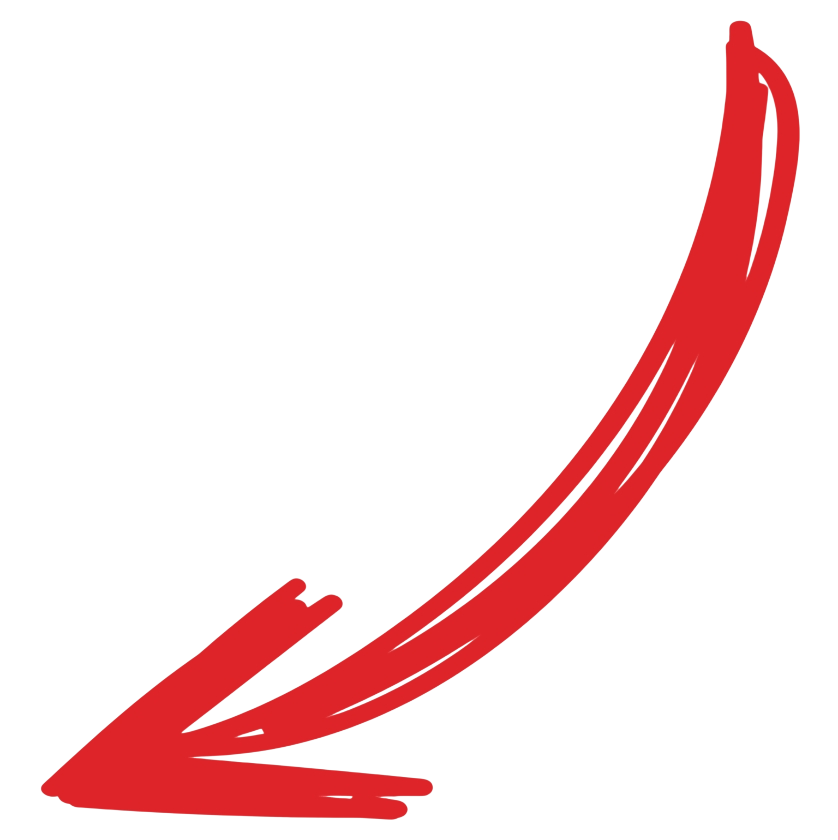
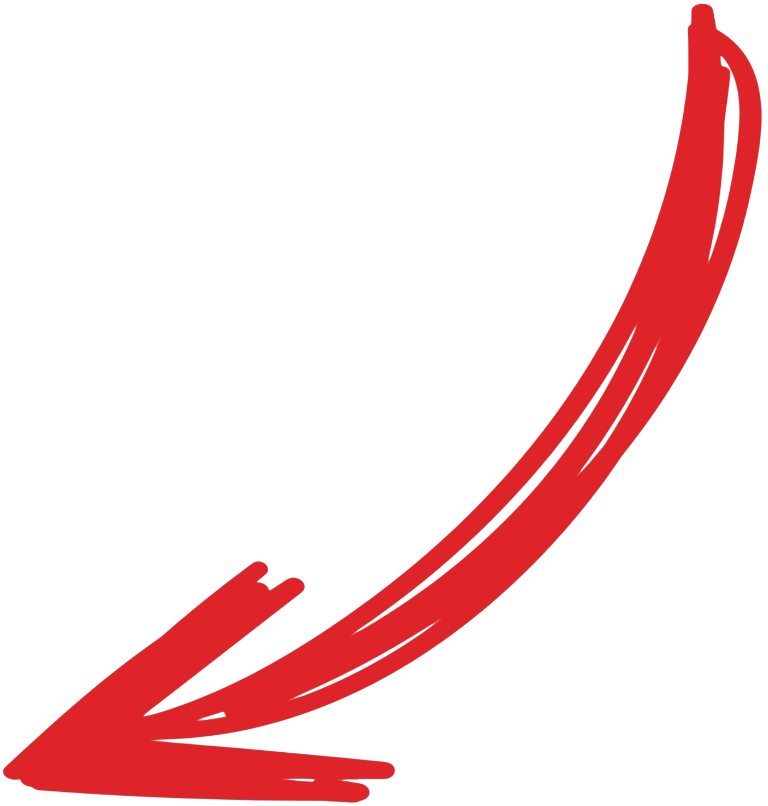
feat: update arrow image and shift arrow 2cm to the left
- Updated arrow image (foni-papik-pro-awx9-p-kartinki-izognutaya-strelochka-na-prozrach-3-Photoroom.png)
- Removed old arrow image
- Shifted arrow position: left: 50% → calc(50% - 20px) (-2cm)
- Applied to both light and dark versions

diff --git a/hero-test-dark.html b/hero-test-dark.html
@@ -89,7 +89,7 @@
       position: absolute;
       width: 120px;
       height: auto;
-      left: 50%;
+      left: calc(50% - 20px);
       top: 400px;
       transform: translateX(-50%) rotate(-25deg);
       opacity: 0.9;

diff --git a/hero-test-light.html b/hero-test-light.html
@@ -89,7 +89,7 @@
       position: absolute;
       width: 120px;
       height: auto;
-      left: 50%;
+      left: calc(50% - 20px);
       top: 400px;
       transform: translateX(-50%) rotate(-25deg);
       opacity: 0.9;
